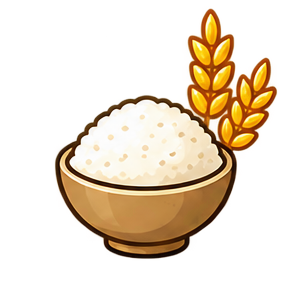
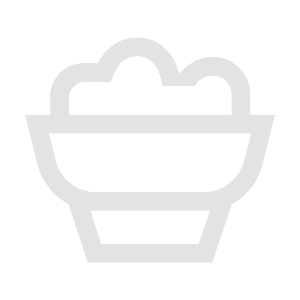
feat: add washoku and yoshoku food thumbnails

diff --git a/test/features/food/food_thumbnail_test.dart b/test/features/food/food_thumbnail_test.dart
@@ -8,18 +8,18 @@ void main() {
     FoodVisualKey.meat: 'meat.png',
     FoodVisualKey.fish: 'fish.png',
     FoodVisualKey.dairy: 'dairy.png',
+    FoodVisualKey.grain: 'grain.png',
     FoodVisualKey.vegetable: 'vegetable.png',
     FoodVisualKey.fruit: 'fruit.png',
     FoodVisualKey.protein: 'protein.png',
     FoodVisualKey.condiment: 'condiment.png',
     FoodVisualKey.soup: 'soup.png',
     FoodVisualKey.surimi: 'surimi.png',
+    FoodVisualKey.plate: 'plate.png',
   };
 
   const materialIcons = <FoodVisualKey, IconData>{
     FoodVisualKey.egg: Icons.egg_alt_outlined,
-    FoodVisualKey.grain: Icons.ramen_dining_outlined,
-    FoodVisualKey.plate: Icons.lunch_dining_outlined,
     FoodVisualKey.snack: Icons.cookie_outlined,
     FoodVisualKey.drink: Icons.local_drink_outlined,
   };

diff --git a/lib/features/food/widgets/food_thumbnail.dart b/lib/features/food/widgets/food_thumbnail.dart
@@ -44,12 +44,14 @@ abstract final class FoodThumbnailAssetResolver {
     FoodVisualKey.meat ||
     FoodVisualKey.fish ||
     FoodVisualKey.dairy ||
+    FoodVisualKey.grain ||
     FoodVisualKey.vegetable ||
     FoodVisualKey.fruit ||
     FoodVisualKey.protein ||
     FoodVisualKey.condiment ||
     FoodVisualKey.soup ||
-    FoodVisualKey.surimi => '$_directory/${key!.stableId}.png',
+    FoodVisualKey.surimi ||
+    FoodVisualKey.plate => '$_directory/${key!.stableId}.png',
     _ => null,
   };
 }
